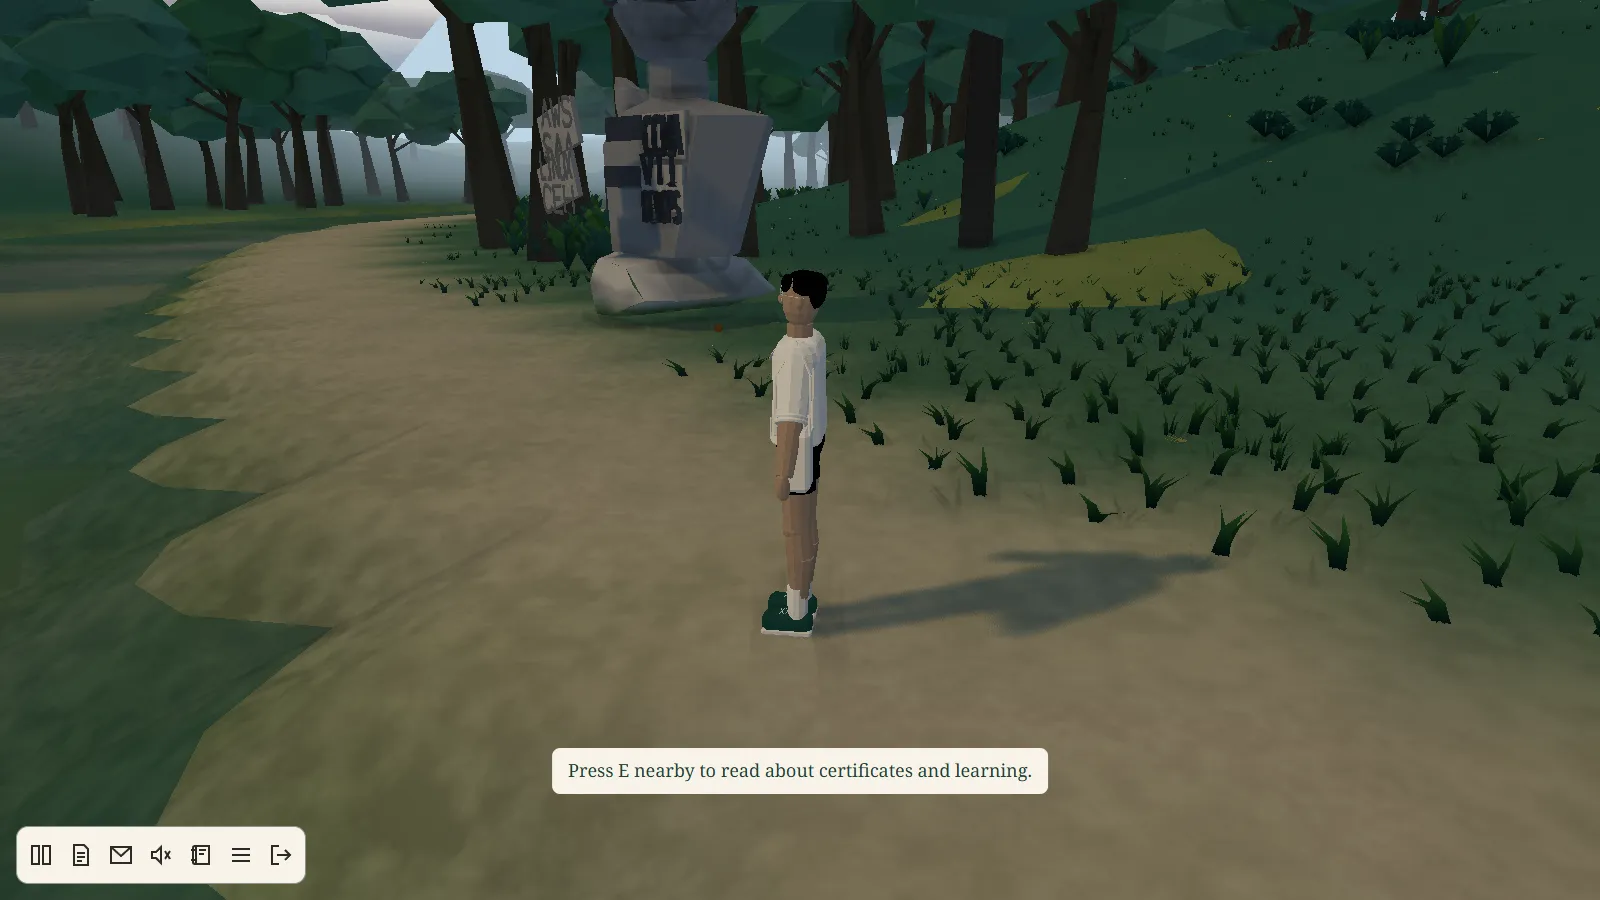
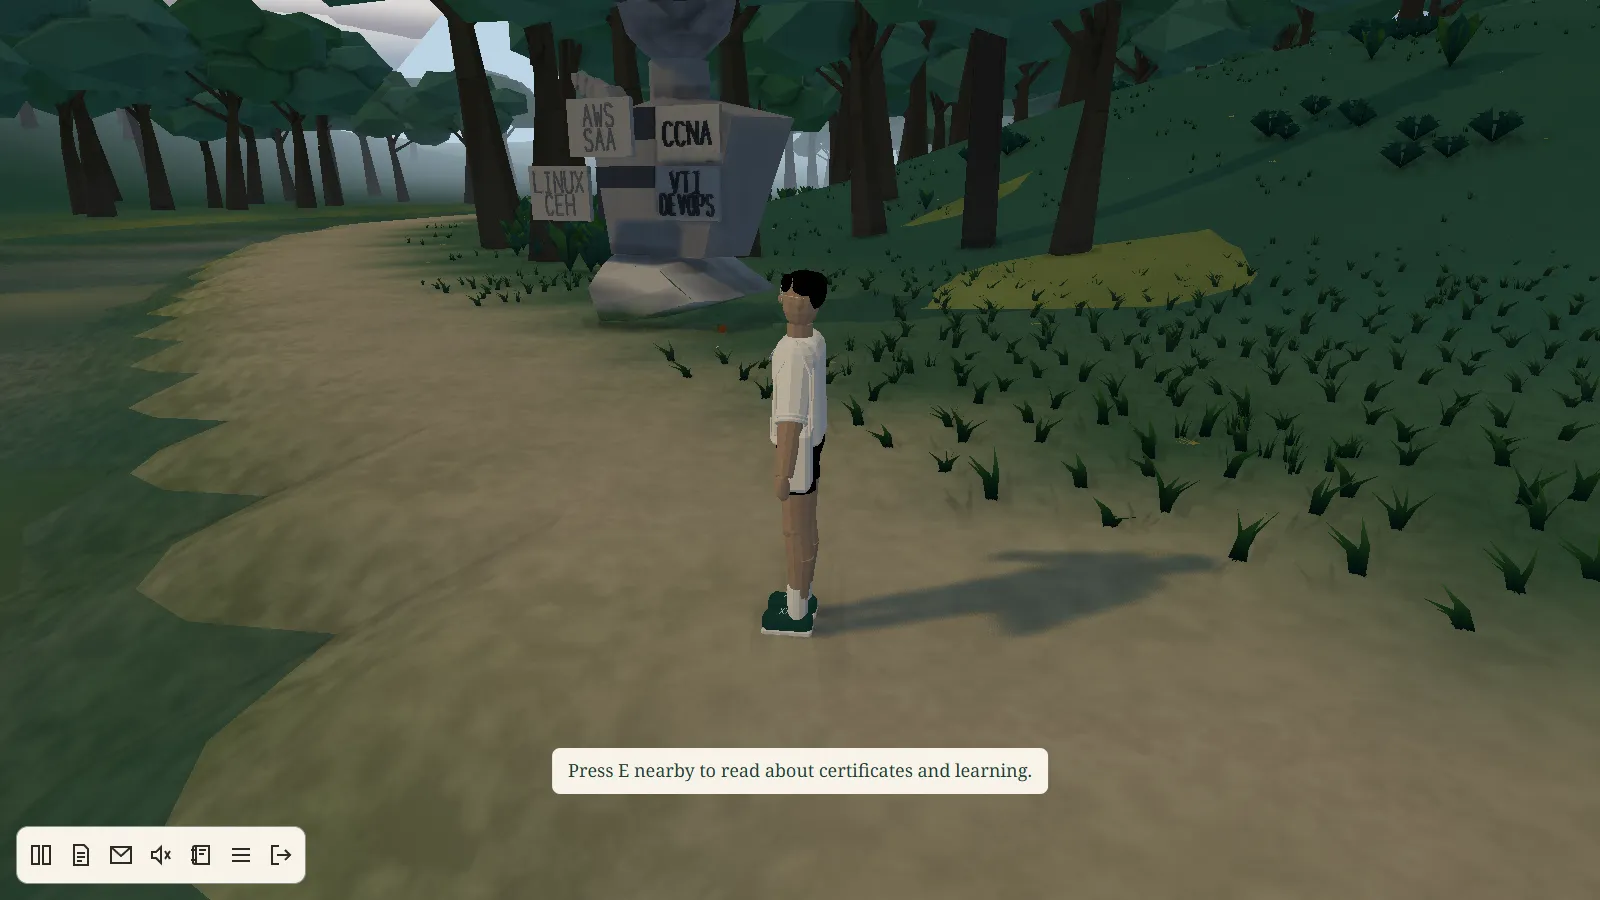
docs(showcase): MS-02b statue shots and notes

diff --git a/docs/showcase/36-r2/antigravity/README.md b/docs/showcase/36-r2/antigravity/README.md
@@ -30,12 +30,13 @@ Full e2e, load-budget, Lighthouse, CPU so main cho cả đợt R2: **NOT RUN** (
 
 | Ticket (góp ý của Duy) | Commit | Ảnh | Duy chấm |
 |---|---|---|---|
-| **MS-02** (#9) tượng đá Duy chưa thành hình thay các cục đá "lốp xe" | `c278102` | [từ đường mòn](ms02-statue.webp) · [cận](ms02-statue-close.webp) | giữ / sửa / bỏ |
+| **MS-02** (#9) tượng đá Duy chưa thành hình thay các cục đá "lốp xe" | `c278102` + `8d5d820` | [từ đường mòn](ms02-statue.webp) · [cận](ms02-statue-close.webp) | giữ / sửa / bỏ |
 
 - Ba vòng: vòng 1 quá nhỏ và tối; vòng 2 là chồng hộp trắng; vòng 3 dựng theo công thức hình khối của Lead (bệ, ngực + vai, cổ, đầu, tóc, kính, vai và góc đầu còn thiếu, mảnh đá lơ lửng, hốc cho chứng chỉ dự định).
 - Lead sửa thêm: bỏ đoạn chèn CCNA cứng (world chỉ đọc `src/content`), bỏ màu bóng quá nhạt làm tượng trắng xanh.
 - Kiểm: gate merge PASS (lint, typecheck, unit 1754/1754); build exit 0.
-- **Còn yếu, chưa sửa:** chữ trên các phiến chứng chỉ dính nhau, khó đọc từ xa; tượng quay mặt dọc theo đường mòn thay vì ra phía người đi tới. Mặt tượng là khối đơn giản, chưa giống Duy.
+- **MS-02b (`8d5d820`):** tượng quay mặt ra đường mòn; chữ trên phiến tách rõ (CCNA, VTI / DEVOPS); hai phiến dự định (AWS SAA, LINUX / CEH) lơ lửng tách riêng, chữ mờ hơn. Ảnh ở trên chụp sau bản này. Kiểm: lint, typecheck, unit Milestones 41/41, build exit 0, gate merge PASS.
+- **Còn yếu, chưa sửa:** mặt tượng là khối đơn giản, chưa giống Duy.
 
 ## Việc theo dõi
 
